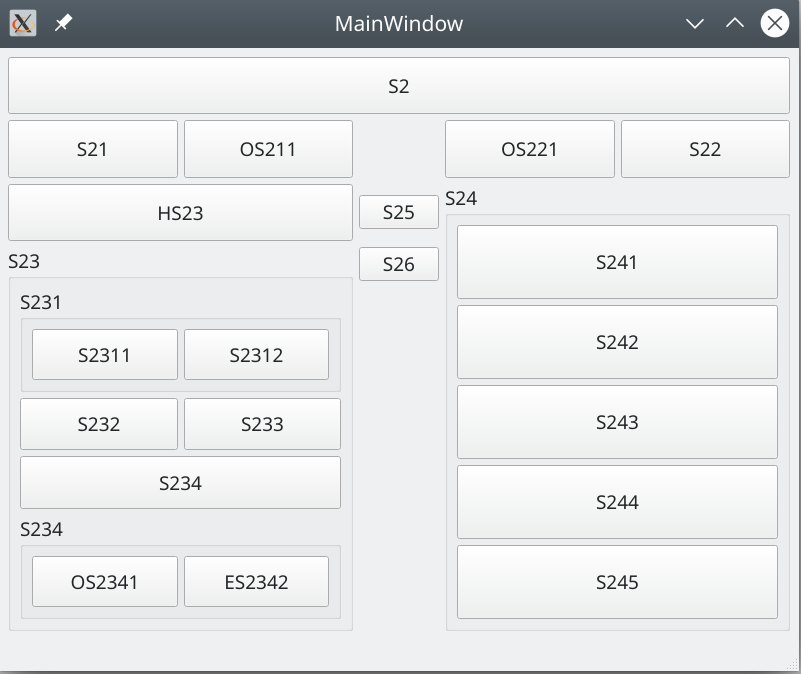
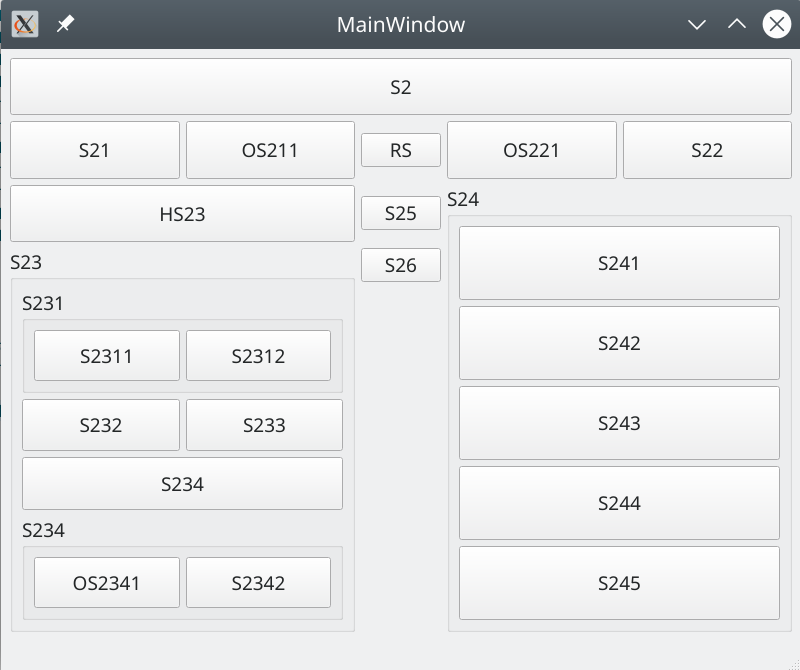
added return state

diff --git a/mainwindow.cpp b/mainwindow.cpp
@@ -28,7 +28,7 @@
 #include <StateMachine.h>
 #include <EndingState.h>
 #include <HistoryState.h>
-#include <OrphanState.h>
+#include <ReturnState.h>
 #include <StateTransition.h>
 #include <HistoryStateTransition.h>
 #include <QPushButton>
@@ -45,6 +45,7 @@ MainWindow::MainWindow(QWidget *parent)
  , s24(nullptr)
  , s25(nullptr)
  , s26(nullptr)
+ , s29(nullptr)
  , s231(nullptr)
  , s232(nullptr)
  , s233(nullptr)
@@ -80,6 +81,7 @@ MainWindow::~MainWindow() {
   delete s232;
   delete s233;
   delete s234;
+  delete s29;
   delete s26;
   delete s25;
   delete s24;
@@ -96,6 +98,7 @@ void MainWindow::connectUI() {
   connect(ui->pb22,   &QPushButton::clicked, sm, [=]{ sm->dispatch(22); });
   connect(ui->pb23,   &QPushButton::clicked, sm, [=]{ sm->dispatch(23); });
   connect(ui->pb25,   &QPushButton::clicked, sm, [=]{ sm->dispatch(25); });
+  connect(ui->pbLF,   &QPushButton::clicked, this, &MainWindow::toggleReturnState);
   connect(ui->pb211,  &QPushButton::clicked, sm, [=]{ sm->dispatch(211); });
   connect(ui->pb221,  &QPushButton::clicked, sm, [=]{ sm->dispatch(221); });
   connect(ui->pb241,  &QPushButton::clicked, sm, [=]{ sm->dispatch(241); });
@@ -109,7 +112,7 @@ void MainWindow::connectUI() {
   connect(ui->pb233,  &QPushButton::clicked, sm, [=]{ sm->dispatch(233); });
   connect(ui->pb234,  &QPushButton::clicked, sm, [=]{ sm->dispatch(234); });
   connect(ui->pb2341, &QPushButton::clicked, sm, [=]{ sm->dispatch(2341); });
-  connect(ui->pb2342, &QPushButton::clicked, sm, [=]{ sm->dispatch(2342); });
+  connect(ui->pb2342, &QPushButton::clicked, sm, [=]{ sm->dispatch(2342); });  
 
   connect(s2,  &State::onEntry, this, &MainWindow::s2Properties);
   connect(s23, &State::onEntry, this, &MainWindow::s23Properties);
@@ -125,6 +128,7 @@ void MainWindow::createStateMachine() {
   s24   = new State("S24", s2);           // virtual
   s25   = new State("S25", s2);
   s26   = new State("S26", s2);
+  s29   = new ReturnState("S29",  s2);
   s211  = new OrphanState("S211", s21);
   s221  = new OrphanState("S221", s22);
   s231  = new State("S231", s23);         // virtual
@@ -166,7 +170,9 @@ void MainWindow::createStateMachine() {
   hst = new HistoryStateTransition(23, s21, s23, s23, false);
   s2->addTransition(hst);
 
+  s21->addTransition(29,  s29);
   s21->addTransition(211, s211);
+  s22->addTransition(29,  s29);
   s22->addTransition(221, s221);
   s23->addTransition(2311, s2311);
   s23->addTransition(2312, s2312);
@@ -251,4 +257,12 @@ void MainWindow::s23Properties(StateTransition* trans) {
   ui->pb2342->setEnabled(true);
   ui->pb233->setEnabled(true);
   ui->pb234->setEnabled(true);
+  }
+
+
+void MainWindow::toggleReturnState(bool active) {
+  if (sm->currentState() == s29)
+     sm->stateReturn();
+  else
+     sm->dispatch(29);
   }

diff --git a/libStateMachine/ReturnState.h b/libStateMachine/ReturnState.h
@@ -1,0 +1,37 @@
+/*
+ * **************************************************************************
+ *
+ *  file:       ReturnState.h
+ *  project:    AppStateMachine
+ *  subproject: statemachine library
+ *  purpose:    sample for hierarchic state machine with history support
+ *  created:    31.12.2022 by Django Reinhard
+ *  copyright:  (c) 2022 Django Reinhard -  all rights reserved
+ *
+ *  This program is free software: you can redistribute it and/or modify
+ *  it under the terms of the GNU General Public License as published by
+ *  the Free Software Foundation, either version 2 of the License, or
+ *  (at your option) any later version.
+ *
+ *  This program is distributed in the hope that it will be useful,
+ *  but WITHOUT ANY WARRANTY; without even the implied warranty of
+ *  MERCHANTABILITY or FITNESS FOR A PARTICULAR PURPOSE.  See the
+ *  GNU General Public License for more details.
+ *
+ *  You should have received a copy of the GNU General Public License
+ *  along with this program.  If not, see <https://www.gnu.org/licenses/>.
+ *
+ * **************************************************************************
+ */
+#ifndef RETURNSTATE_H
+#define RETURNSTATE_H
+#include <OrphanState.h>
+
+
+class ReturnState : public OrphanState
+{
+public:
+  explicit ReturnState(const QString& name, State* parentState = nullptr, QObject *parent = nullptr);
+  virtual ~ReturnState();
+  };
+#endif // RETURNSTATE_H

diff --git a/libStateMachine/ReturnState.cpp b/libStateMachine/ReturnState.cpp
@@ -1,0 +1,35 @@
+/*
+ * **************************************************************************
+ *
+ *  file:       ReturnState.cpp
+ *  project:    AppStateMachine
+ *  subproject: statemachine library
+ *  purpose:    sample for hierarchic state machine with history support
+ *  created:    31.12.2022 by Django Reinhard
+ *  copyright:  (c) 2022 Django Reinhard -  all rights reserved
+ *
+ *  This program is free software: you can redistribute it and/or modify
+ *  it under the terms of the GNU General Public License as published by
+ *  the Free Software Foundation, either version 2 of the License, or
+ *  (at your option) any later version.
+ *
+ *  This program is distributed in the hope that it will be useful,
+ *  but WITHOUT ANY WARRANTY; without even the implied warranty of
+ *  MERCHANTABILITY or FITNESS FOR A PARTICULAR PURPOSE.  See the
+ *  GNU General Public License for more details.
+ *
+ *  You should have received a copy of the GNU General Public License
+ *  along with this program.  If not, see <https://www.gnu.org/licenses/>.
+ *
+ * **************************************************************************
+ */
+#include <ReturnState.h>
+
+
+ReturnState::ReturnState(const QString& name, State* parentState, QObject *parent)
+ : OrphanState(name, parentState, parent) {
+  }
+
+
+ReturnState::~ReturnState() {
+  }

diff --git a/libStateMachine/StateMachine.cpp b/libStateMachine/StateMachine.cpp
@@ -23,9 +23,10 @@
  * 
  * **************************************************************************
  */
-#include "StateMachine.h"
-#include "StateTransition.h"
-#include "EndingState.h"
+#include <StateMachine.h>
+#include <StateTransition.h>
+#include <EndingState.h>
+#include <ReturnState.h>
 #include <QDebug>
 #include <stdexcept>
 
@@ -71,7 +72,7 @@ void StateMachine::setUnSeen(State *state) {
   }
 
 
-void StateMachine::dispatch(const StateRequestEvent& e) {
+State* StateMachine::dispatch(const StateRequestEvent& e) {
   if (!current) throw std::logic_error("missing state!");
 
   qDebug() << "event #" << e.code() << "received at state \"" << current->name() << "\"";
@@ -98,4 +99,20 @@ void StateMachine::dispatch(const StateRequestEvent& e) {
                          // never have a predecessor!
 
   qDebug() << "after event-processing, state is now \"" << current->name() << "\"";
+
+  return current;
+  }
+
+
+State* StateMachine::stateReturn() {
+  ReturnState* rs = dynamic_cast<ReturnState*>(current);
+
+  if (rs && rs->predecessor) {
+     StateTransition st(0, rs, rs->predecessor);
+
+     current = rs->executeTransition(&st);
+     }
+  qDebug() << "after event-processing, state is now \"" << current->name() << "\"";
+
+  return current;
   }

diff --git a/libStateMachine/StateMachine.h b/libStateMachine/StateMachine.h
@@ -39,8 +39,9 @@ public:
   StateMachine();
   virtual ~StateMachine();
 
-  void dispatch(const StateRequestEvent& e);
-  void setInitialState(State* state);
+  State*  dispatch(const StateRequestEvent& e);
+  State*  stateReturn();
+  void    setInitialState(State* state);
 
   virtual State* currentState() const;
 
@@ -52,8 +53,5 @@ protected:
 private:
   State*       current;
   QSet<State*> history;
-//  friend class ChildTests;
-//  friend class BasicsTests;
-//  friend class HistoryTests;
   };
 #endif

diff --git a/mainwindow.h b/mainwindow.h
@@ -51,6 +51,7 @@ public slots:
   void s0Properties(StateTransition* trans);
   void s2Properties(StateTransition* trans);
   void s23Properties(StateTransition* trans);
+  void toggleReturnState(bool active);
 
 private:
   Ui::MainWindow *ui;
@@ -63,6 +64,7 @@ private:
   State* s24;
   State* s25;
   State* s26;
+  State* s29;
   State* s211;
   State* s221;
   State* s231;

diff --git a/README.md b/README.md
@@ -9,6 +9,7 @@ Implementation of a hierarchical state machine
  - EndingState - is used as endpoint of a process
  - HistoryState - is used as conditial guard in the sense, that state to check must be an entry of statemachines history (has to be active in the past). HistoryStateTransition may form a positive or negative condition
  - OrphanState - is used to bypass hierarchy. As orphans have no parents, an OrphanState will never ask a parent for state transitions.
+ - ReturnState - this state is an OrphanState that can be activated from different states and the statemachine may return to the state, where this state has been activated from
 
 ### **StateMachine** is build as a library with unittests and sample application.
 
@@ -47,6 +48,8 @@ Implementation of a hierarchical state machine
 - **S2** is the first button, that needs to be pressed. Callback of the bound event enables some more buttons.
 
 - **OS211** is an orphaned state, which can be enabled from active **S21** only. Once enabled, **S21** is the only valid state to leave **S211** (similar is true for *OS221*).
+
+- **RS** is an return state, which may be activated from **S21** or **S22**. **RS** state will block any state change request other than **RS** again. When pressed the second time, **RS** will return to **S21** or **S22** depending on which state has been active before pressing **RS** the first time
 
 - **HS23** is a history state, which means, that all states starting with "23" can be activated only when HS23 has been pushed before.
 
